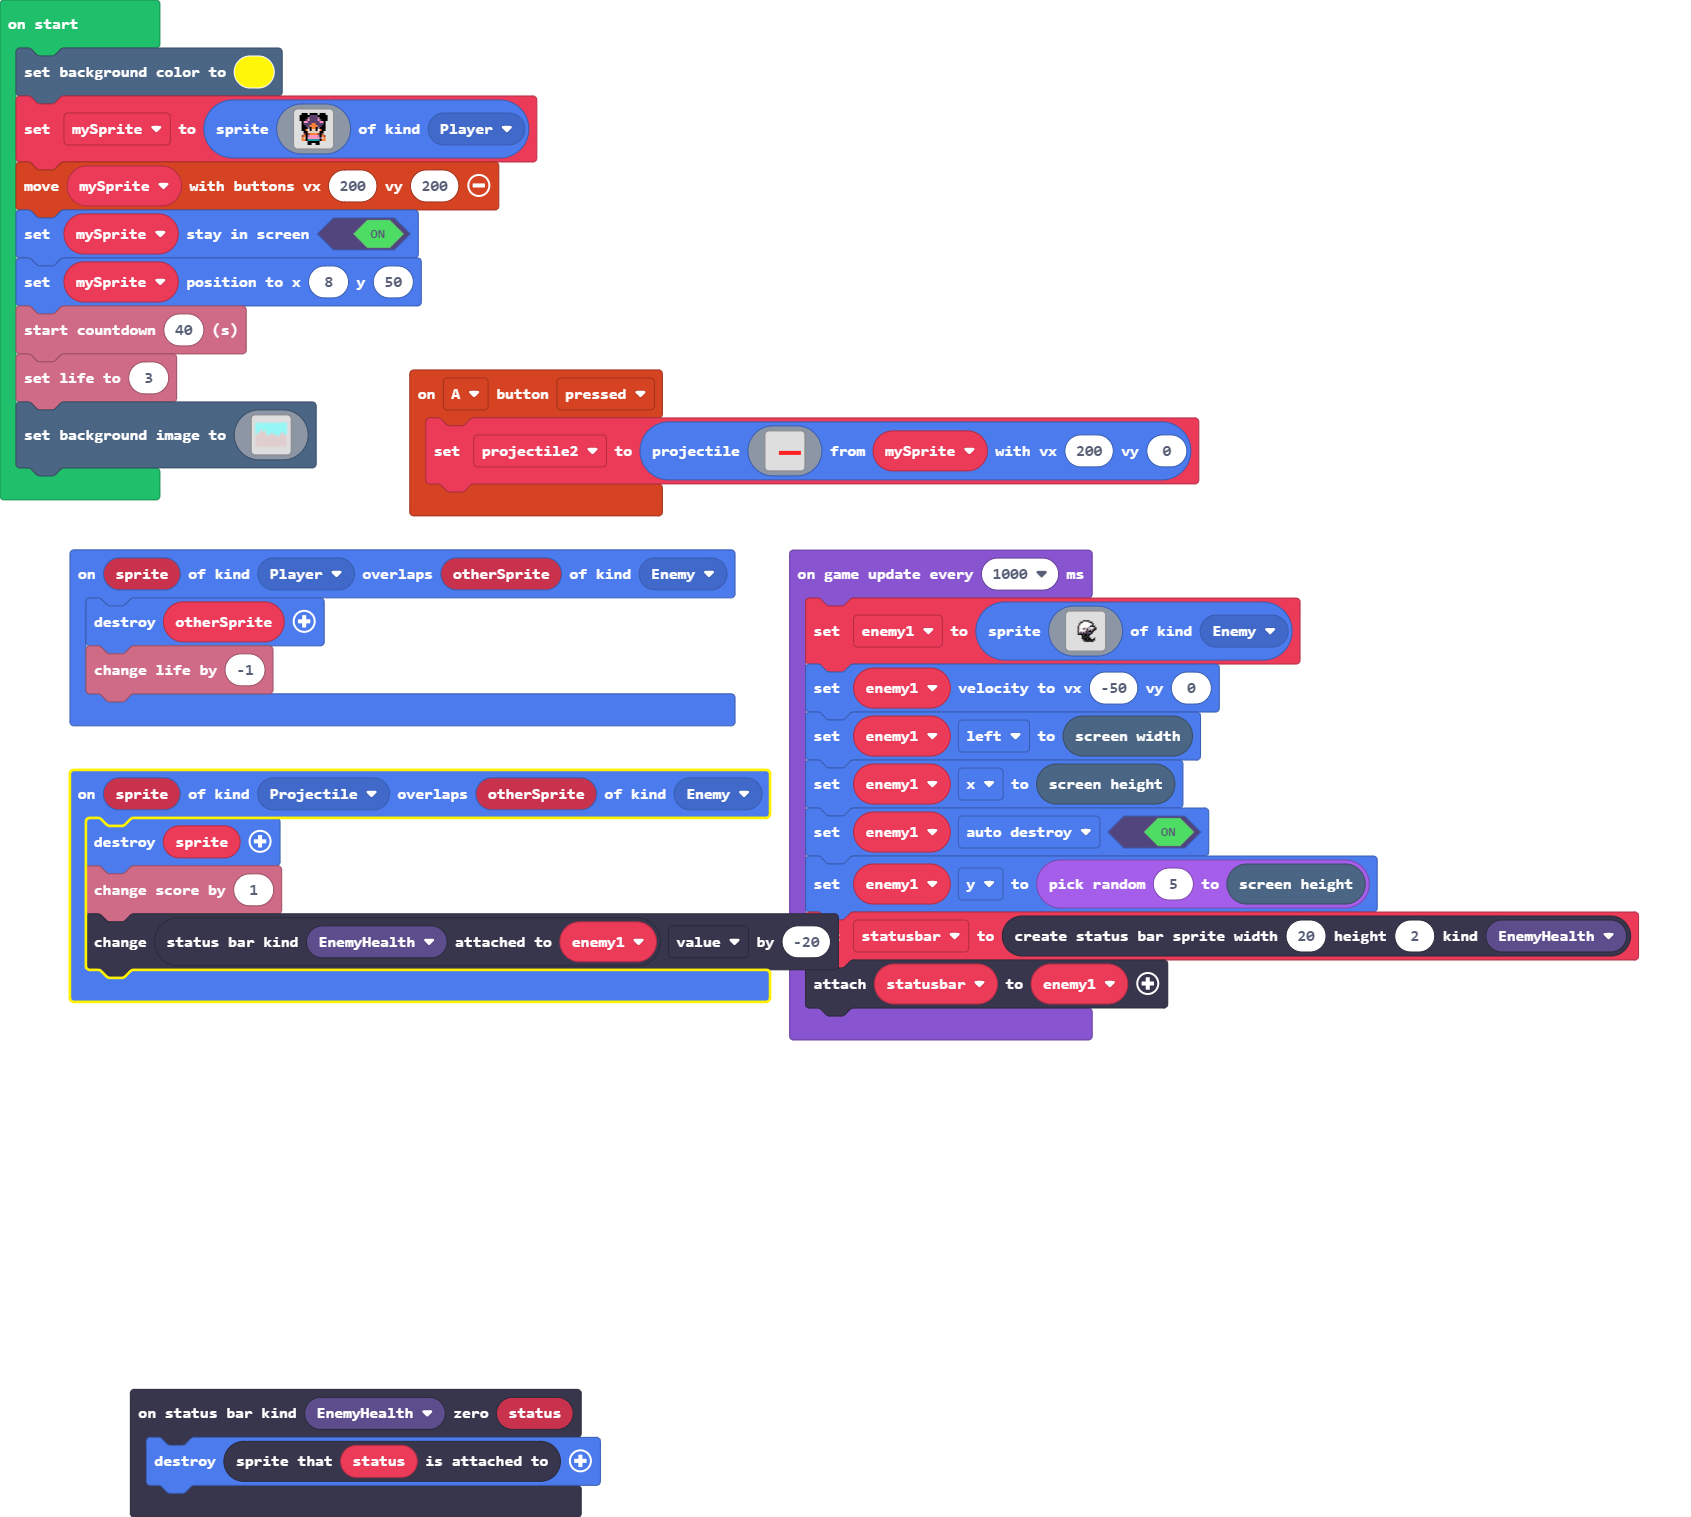
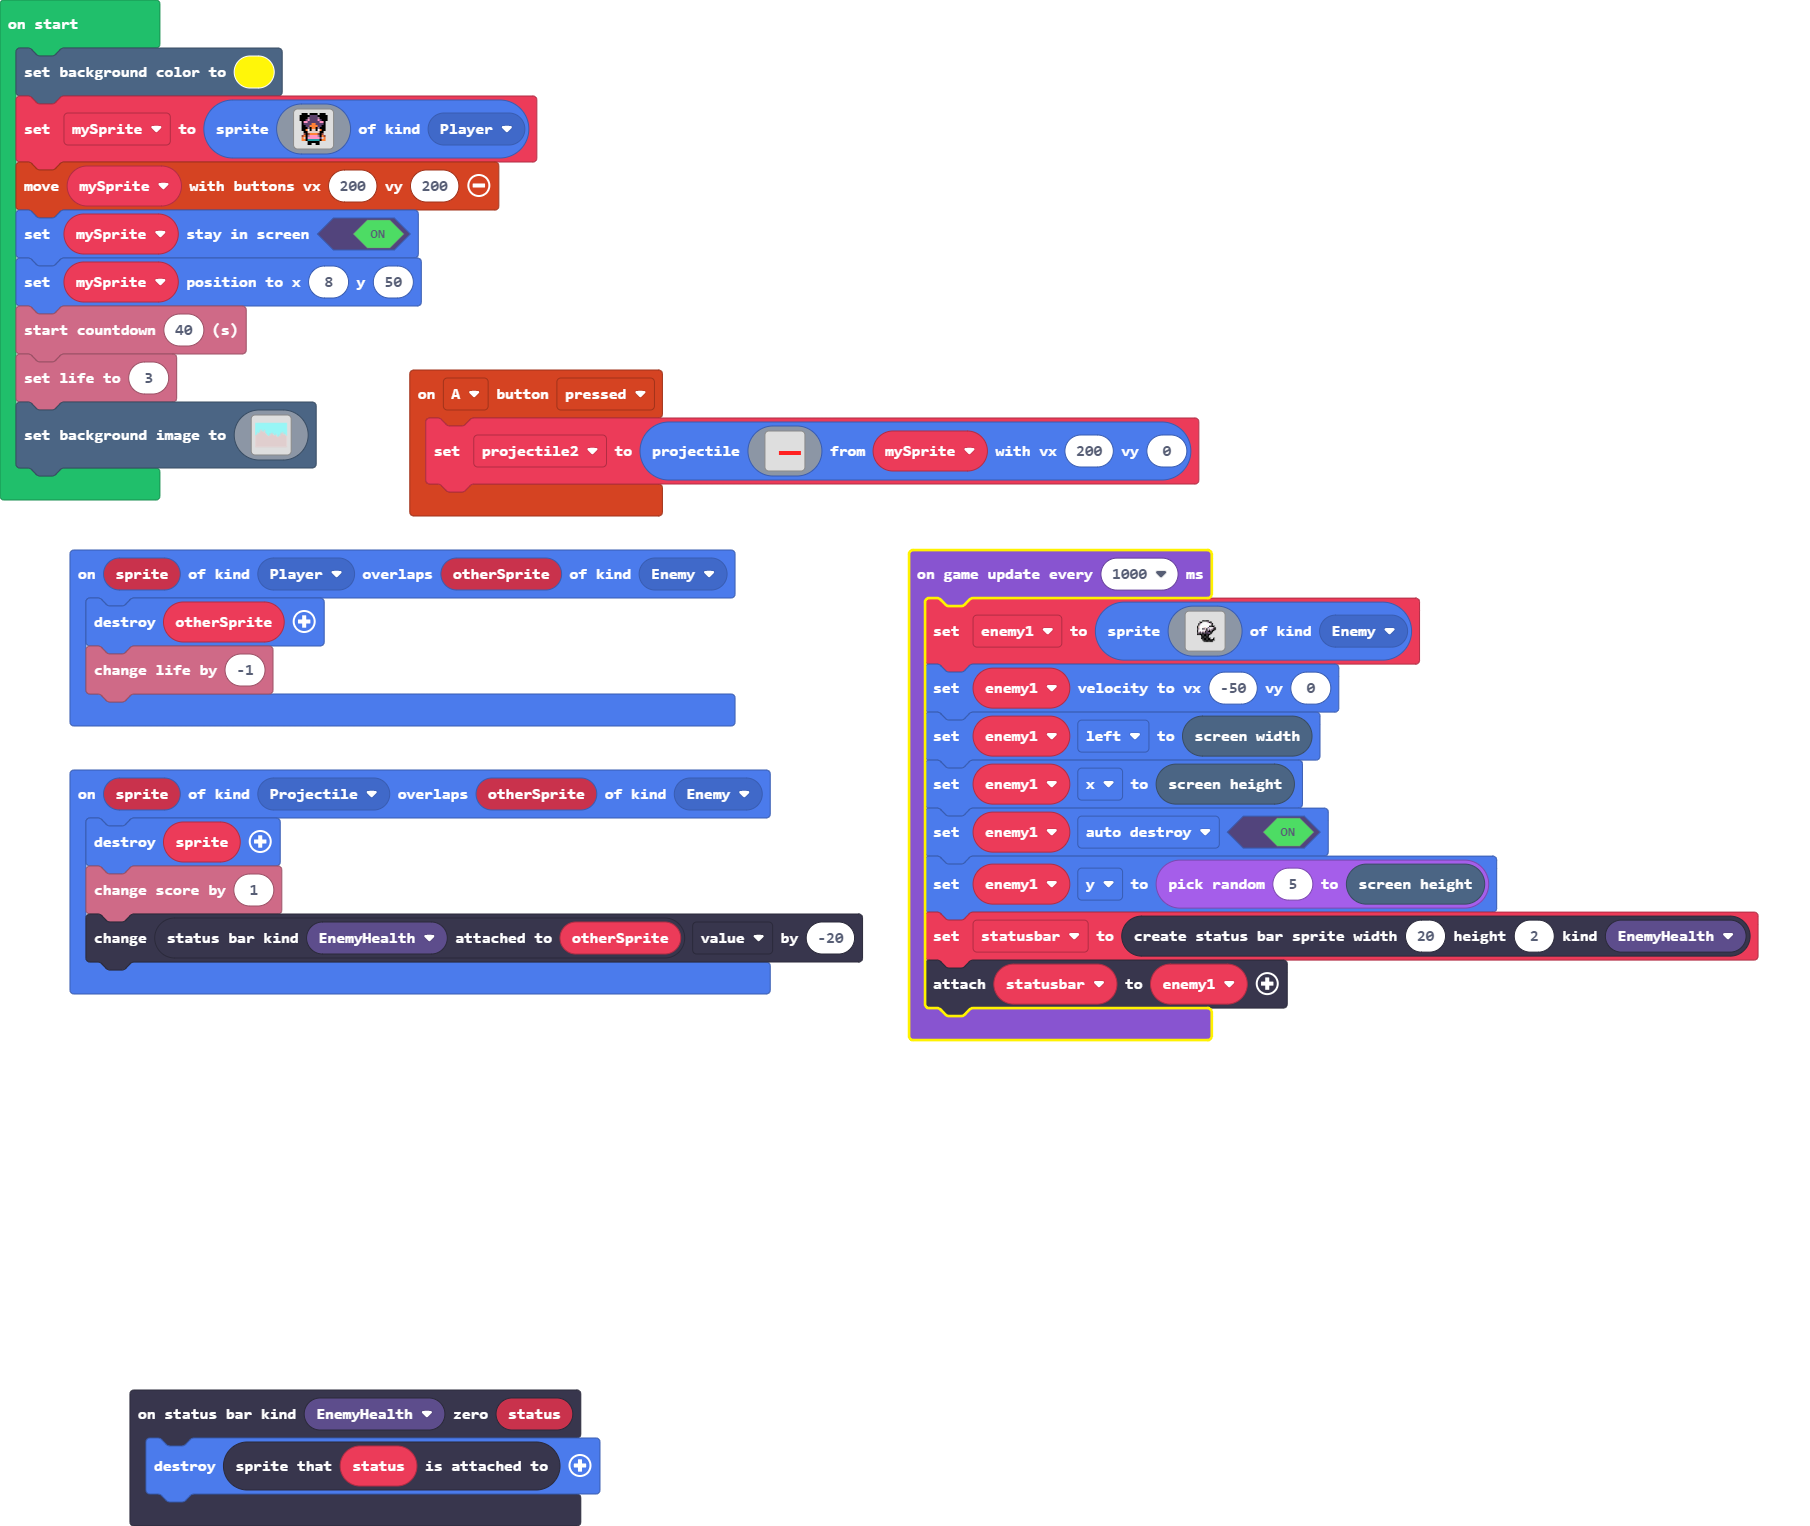
Update main.blocks, main.ts

Changed region(s): [[0.0, 0.0, 0.984, 0.7126], [0.0615, 0.8985, 0.369, 1.0]]

diff --git a/main.ts b/main.ts
@@ -24,7 +24,7 @@ statusbars.onZero(StatusBarKind.EnemyHealth, function (status) {
 sprites.onOverlap(SpriteKind.Projectile, SpriteKind.Enemy, function (sprite, otherSprite) {
     sprite.destroy()
     info.changeScoreBy(1)
-    statusbars.getStatusBarAttachedTo(StatusBarKind.EnemyHealth, enemy1).value += -20
+    statusbars.getStatusBarAttachedTo(StatusBarKind.EnemyHealth, otherSprite).value += -20
 })
 sprites.onOverlap(SpriteKind.Player, SpriteKind.Enemy, function (sprite, otherSprite) {
     otherSprite.destroy()
